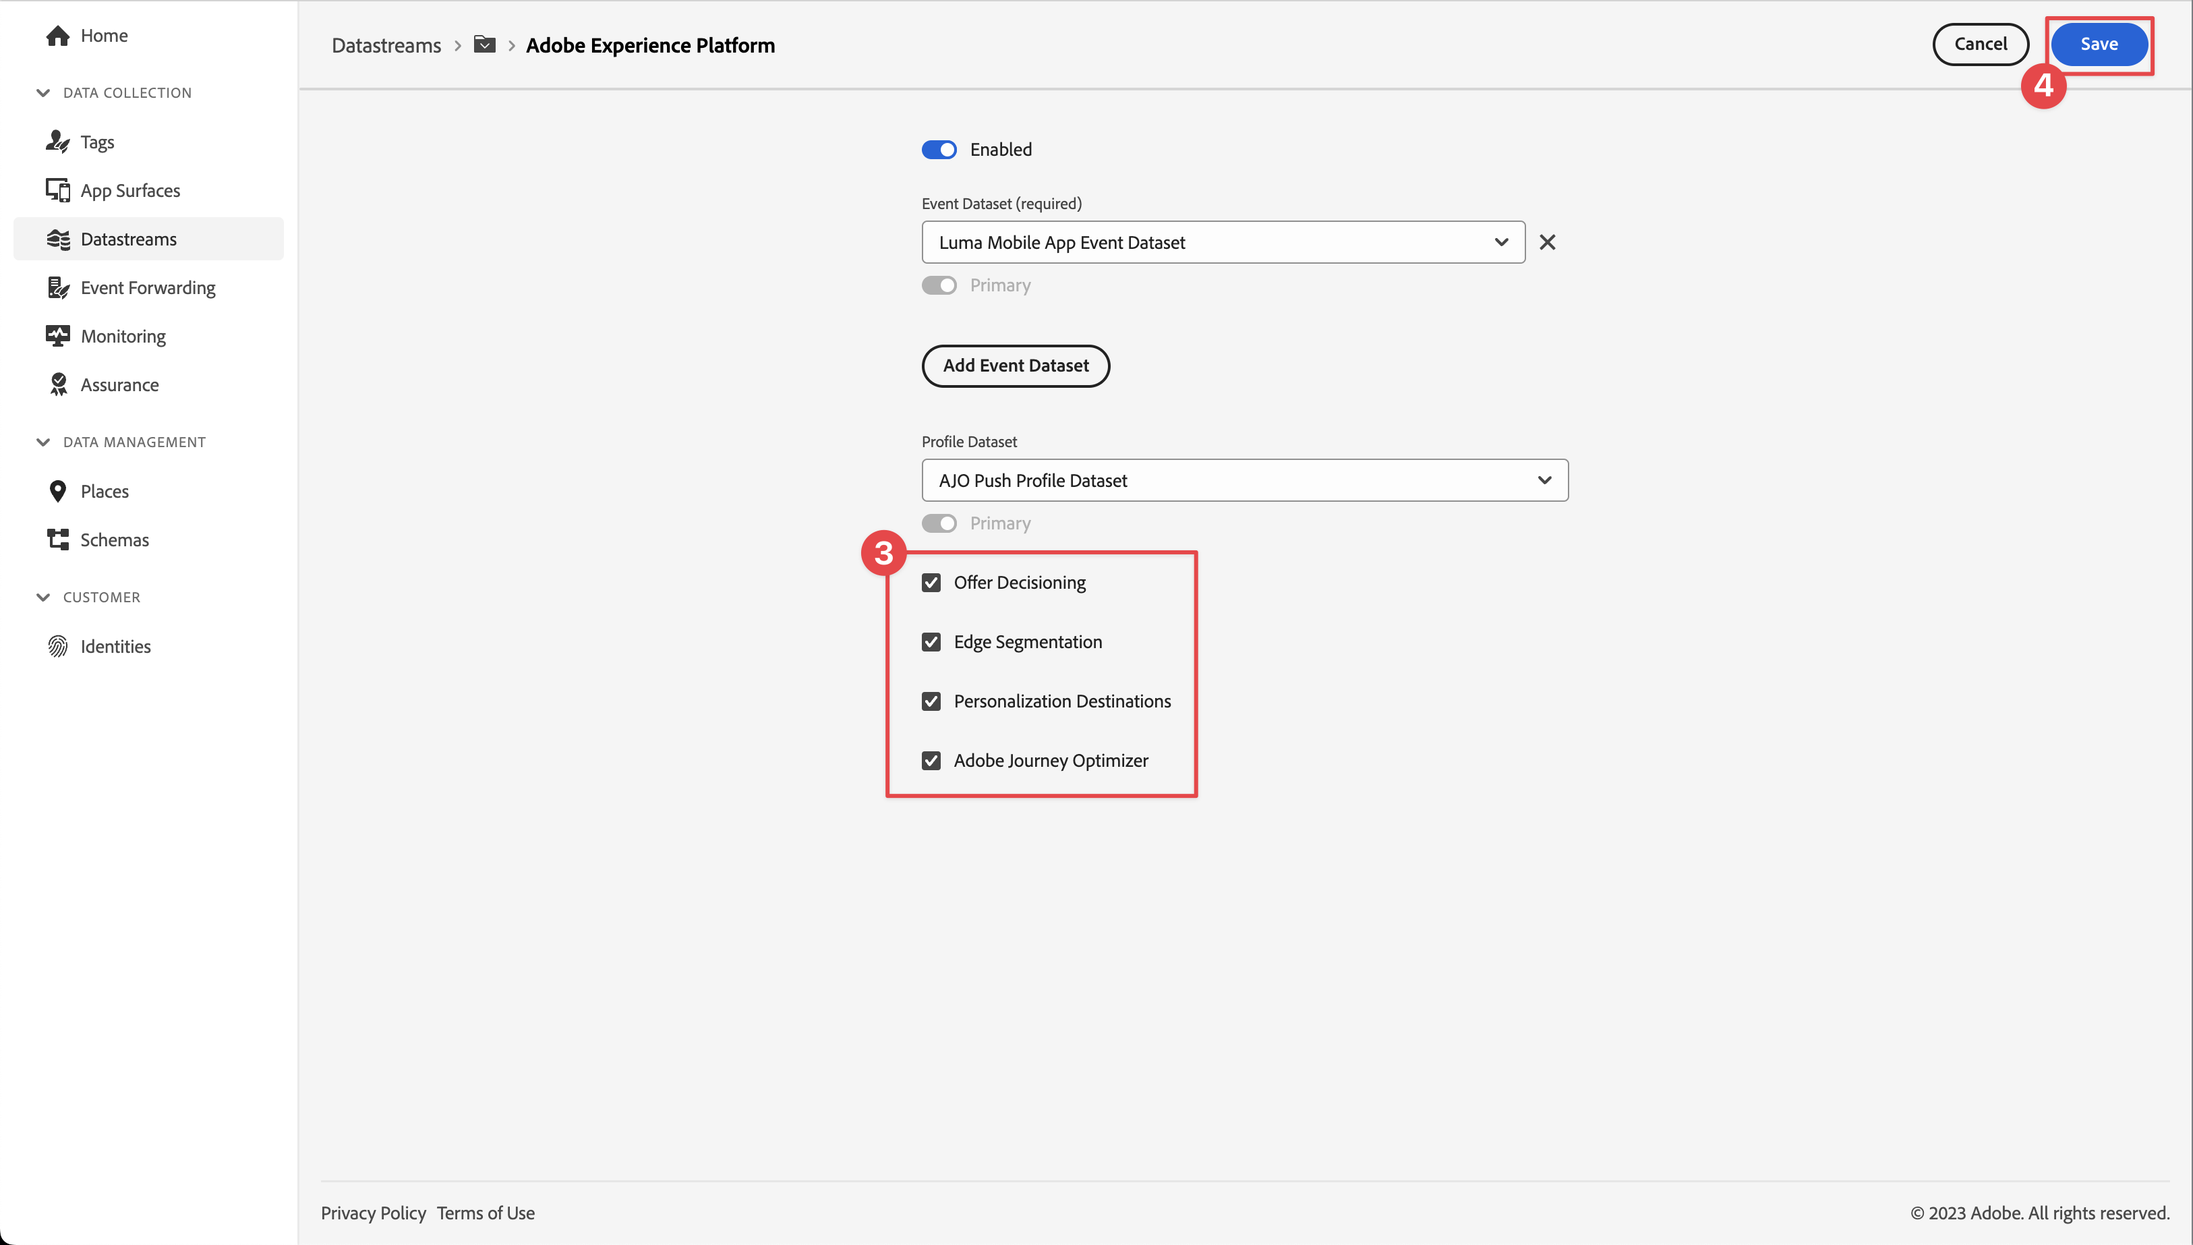
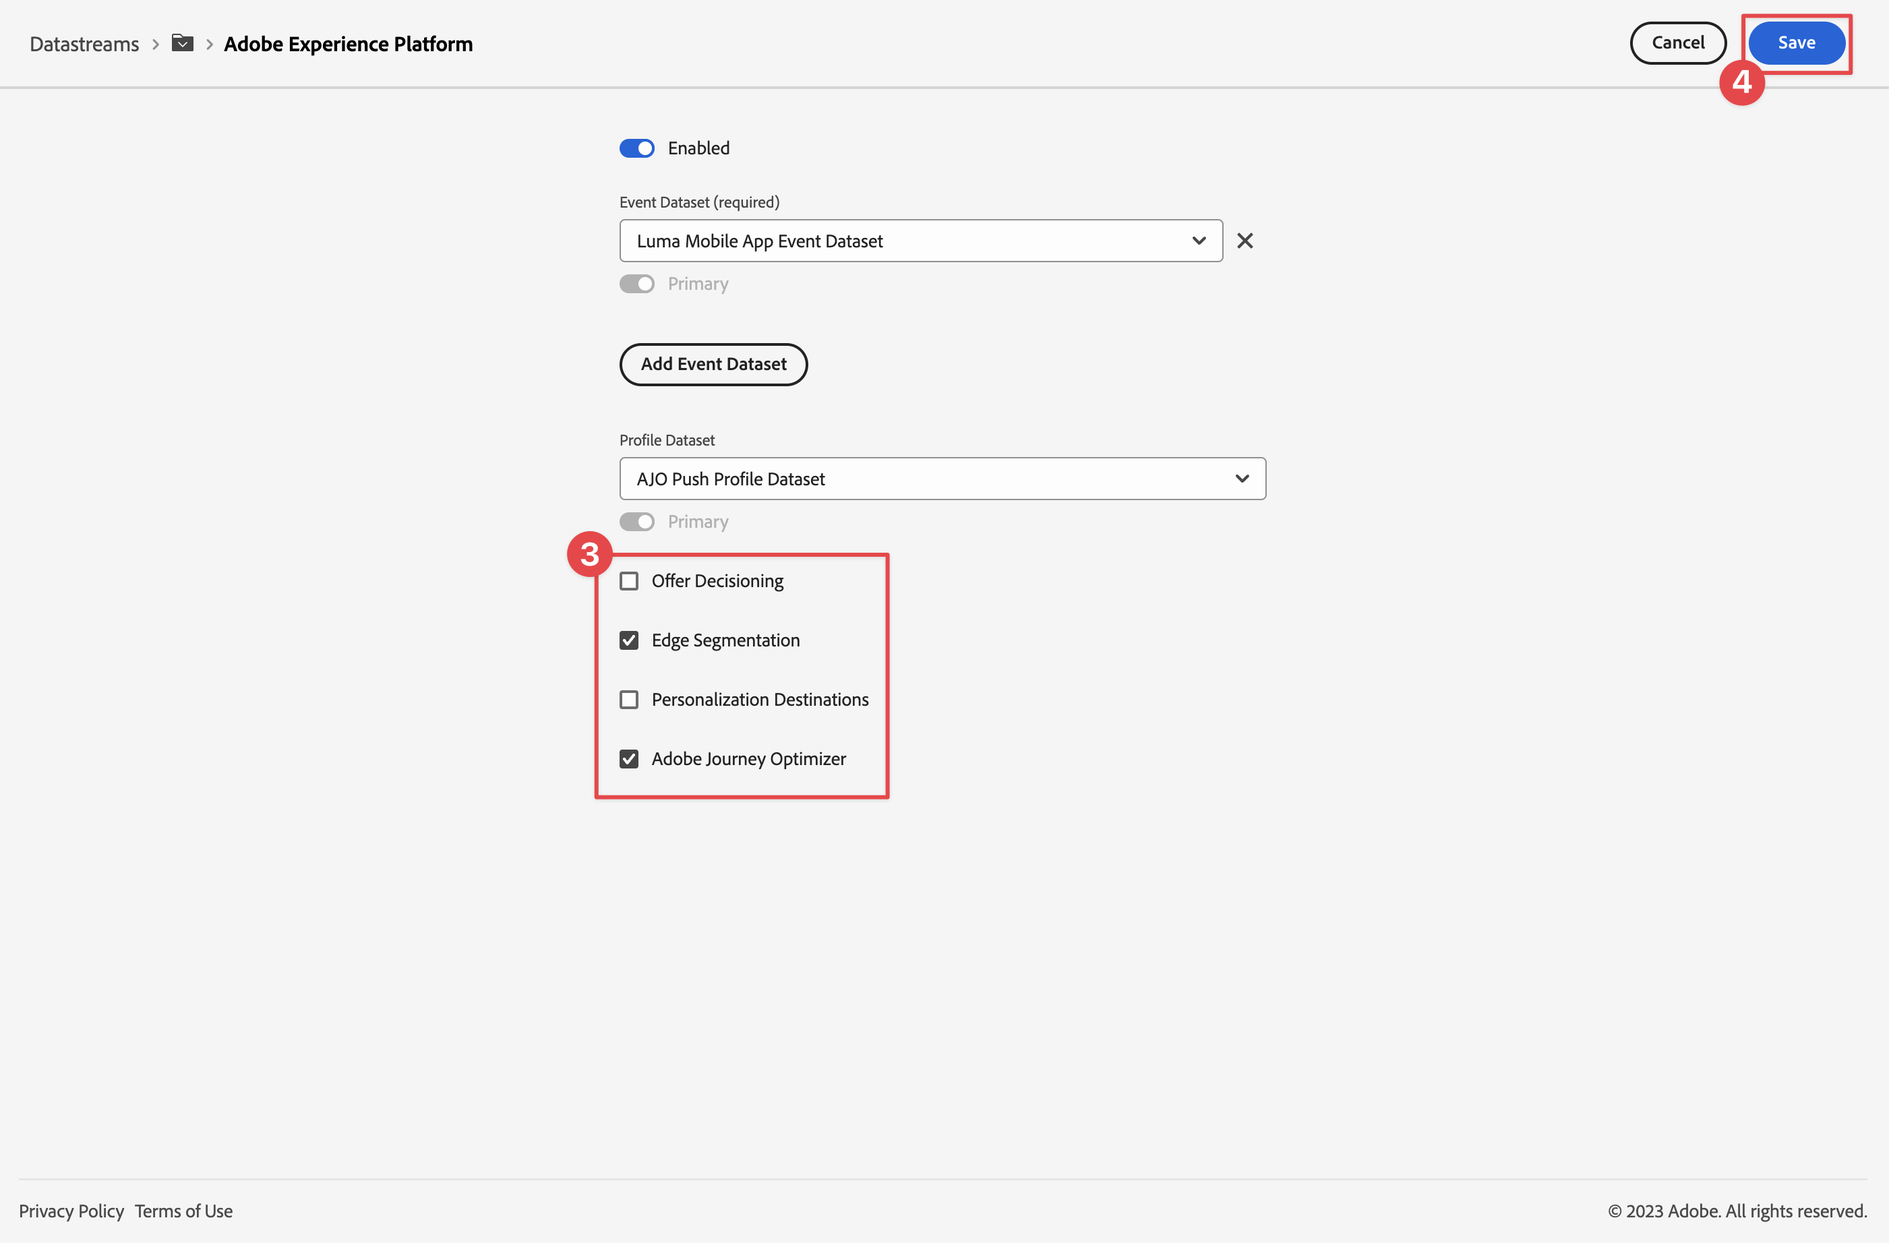
More updates

diff --git a/help/tutorial-mobile-sdk-new/install-sdks.md b/help/tutorial-mobile-sdk-new/install-sdks.md
@@ -27,9 +27,12 @@ In this lesson, you will:
 
 ## Swift Package Manager
 
-Instead of using CocoaPods and using a Pod file (as outlined in the Mobile Install Instructions, see [Generate SDK install instructions](./configure-tags.md#generate-sdk-install-instructions)), you add individual packages using Xcode's native Swift Package Manager.
+Instead of using CocoaPods and using a Pod file (as outlined in the Mobile Install Instructions, see [Generate SDK install instructions](./configure-tags.md#generate-sdk-install-instructions)), you add individual packages using Xcode's native Swift Package Manager. The Xcode project already has all packages dependencies added for you. The Xcode **[!UICONTROL Package Dependencies]** screen should look like:
 
-In Xcode, use **[!UICONTROL File]** > **[!UICONTROL Add Packages...]** and install all packages listed in the table below. Select the link of the package in the table to obtain the full URL for the specific package.
+![Xcode Package Dependencies](assets/xcode-package-dependencies.png){zoomable="yes"}
+
+
+In Xcode, you can use **[!UICONTROL File]** > **[!UICONTROL Add Packages...]** to add packages. The table below provides links to the URLs you would use to add packages. The links also direct you to more information about each specific package.  
 
 | Package | Description | 
 |---|---|
@@ -42,11 +45,6 @@ In Xcode, use **[!UICONTROL File]** > **[!UICONTROL Add Packages...]** and insta
 | [AEP Messaging](https://github.com/adobe/aepsdk-messaging-ios.git) | The AEP Messaging extension (`AEPMessaging`) allows you to send push notification tokens and push notification click-through feedback to the Adobe Experience Platform.|
 | [AEP Optimize](https://github.com/adobe/aepsdk-optimize-ios) | The AEP Optimize extension (`AEPOptimize`) provides APIs to enable real-time personalization workflows in the Adobe Experience Platform Mobile SDKs using Adobe Target or Adobe Journey Optimizer Offer Decisioning. It requires `AEPCore` and `AEPEdge` extensions to send personalization query events to the Experience Edge network. |
 | [AEP Assurance](https://github.com/adobe/aepsdk-assurance-ios.git) | Assurance (a.k.a. project Griffon) is a new, innovative extension (`AEPAssurance`) to help you inspect, proof, simulate, and validate how you collect data or serve experiences in your mobile app. This extension enables your app for Assurance. |
-
-
-After you have installed all packages, your Xcode **[!UICONTROL Package Dependencies]** screen should look like:
-
-![Xcode Package Dependencies](assets/xcode-package-dependencies.png){zoomable="yes"}
 
 
 ## Import extensions
@@ -76,10 +74,10 @@ Do the same for **[!DNL Luma]** > **[!DNL Luma]** > **[!DNL Utils]** > **[!UICON
 
 Navigate to **[!DNL Luma]** > **[!DNL Luma]** > **AppDelegate** in the Xcode Project navigator. 
 
-1. Set the `@AppStorage` value for `environmentFileId` to the Development Environment File ID value that you retrieved from tags in step 6 in [Generate SDK install instructions](configure-tags.md#generate-sdk-install-instructions). 
+1. Replace the `@AppStorage` value `YOUR_ENVIRONMENT_ID_GOES_HERE` for `environmentFileId` to the Development Environment File ID value that you retrieved from tags in step 6 in [Generate SDK install instructions](configure-tags.md#generate-sdk-install-instructions). 
 
    ```swift
-   @AppStorage("environmentFileId") private var environmentFileId = "b5cbd1a1220e/1857ef6cacb5/launch-2594f26b23cd-development"
+   @AppStorage("environmentFileId") private var environmentFileId = "YOUR_ENVIRONMENT_ID_GOES_HERE"
    ```
 
 1. Add the following code to the `application(_, didFinishLaunchingWithOptions)` function.

diff --git a/help/tutorial-mobile-sdk-new/target.md b/help/tutorial-mobile-sdk-new/target.md
@@ -42,7 +42,7 @@ In this lesson, you will
 * Validate implementation in Assurance.
 
 
-## Setup your app
+## Setup
 
 >[!TIP]
 >
@@ -71,10 +71,10 @@ To ensure data send from your mobile app to the Edge Network is forwarded to Jou
 
 1. In the Data Collection UI, select **[!UICONTROL Datastreams]**, and select your datastream, for example **[!DNL Luma Mobile App]**.
 1. Select ![More](https://spectrum.adobe.com/static/icons/workflow_18/Smock_MoreSmallList_18_N.svg) for **[!UICONTROL Experience Platform]** and select ![Edit](https://spectrum.adobe.com/static/icons/workflow_18/Smock_Edit_18_N.svg) **[!UICONTROL Edit]** from the context menu.
-1. In the **[!UICONTROL Datastreams]** > ![Folder](https://spectrum.adobe.com/static/icons/workflow_18/Smock_Folder_18_N.svg) >  **[!UICONTROL Adobe Experience Platform]** screen, ensure **[!UICONTROL Offer Decisioning]**, **[!UICONTROL Edge Segmentation]**, **[!UICONTROL Personalization Destinations]**, and **[!UICONTROL Adobe Journey Optimizer]** are selected. See [Adobe Experience Platform settings](https://experienceleague.adobe.com/docs/experience-platform/datastreams/configure.html?lang=en#aep) for more information.
+1. In the **[!UICONTROL Datastreams]** > ![Folder](https://spectrum.adobe.com/static/icons/workflow_18/Smock_Folder_18_N.svg) >  **[!UICONTROL Adobe Experience Platform]** screen, ensure **[!UICONTROL Offer Decisioning]**, **[!UICONTROL Edge Segmentation]**, and **[!UICONTROL Personalization Destinations]** are selected. If you also follow the Journey Optimizer lessons, you should select **[!UICONTROL Adobe Journey Optimizer]** as well. See [Adobe Experience Platform settings](https://experienceleague.adobe.com/docs/experience-platform/datastreams/configure.html?lang=en#aep) for more information.
 1. To save your datastream configuration, select **[!UICONTROL Save]** .
 
-   ![AEP datastream configuration](assets/datastream-aep-configuration.png)
+   ![AEP datastream configuration](assets/datastream-aep-configuration-target.png)
 
 
 ### Install Adobe Journey Optimizer - Decisioning tags extension
@@ -160,7 +160,7 @@ There are many types of activities you can create in Adobe Target and implement 
 
     1. Rename your Untitled Activity, for example  to `Luma Mobile SDK Tutorial - A/B Test Example`.
     1. Enter an **[!UICONTROL Objective]** for your A/B test, for example `A/B Test for Luma mobile app tutorial`.
-    1. Select **[!UICONTROL Conversion]**, **[!UICONTROL Clicked on mbox]** in the **[!UICONTROL Goal Metric]** > **[!UICONTROL MY PRIMARY GOAL]** tile and enter your location (mbox) name, for example `luma-mobileapp-abtest`.
+    1. Select **[!UICONTROL Conversion]**, **[!UICONTROL Viewed an mbox]** in the **[!UICONTROL Goal Metric]** > **[!UICONTROL MY PRIMARY GOAL]** tile and enter your location (mbox) name, for example `luma-mobileapp-abtest`.
     1. Select **[!UICONTROL Save & Close]**.
 
        ![Goals Settings](assets/target-goals.png)

diff --git a/help/tutorial-mobile-sdk-new/journey-optimizer-offers.md b/help/tutorial-mobile-sdk-new/journey-optimizer-offers.md
@@ -56,10 +56,12 @@ To ensure data send from your mobile app to the Edge Network is forwarded to Jou
 
 1. In the Data Collection UI, select **[!UICONTROL Datastreams]**, and select your datastream, for example **[!DNL Luma Mobile App]**.
 1. Select ![More](https://spectrum.adobe.com/static/icons/workflow_18/Smock_MoreSmallList_18_N.svg) for **[!UICONTROL Experience Platform]** and select ![Edit](https://spectrum.adobe.com/static/icons/workflow_18/Smock_Edit_18_N.svg) **[!UICONTROL Edit]** from the context menu.
-1. In the **[!UICONTROL Datastreams]** > ![Folder](https://spectrum.adobe.com/static/icons/workflow_18/Smock_Folder_18_N.svg) >  **[!UICONTROL Adobe Experience Platform]** screen, ensure **[!UICONTROL Offer Decisioning]**, **[!UICONTROL Edge Segmentation]**, **[!UICONTROL Personalization Destinations]**, and **[!UICONTROL Adobe Journey Optimizer]** are selected. See [Adobe Experience Platform settings](https://experienceleague.adobe.com/docs/experience-platform/datastreams/configure.html?lang=en#aep) for more information.
+1. In the **[!UICONTROL Datastreams]** > ![Folder](https://spectrum.adobe.com/static/icons/workflow_18/Smock_Folder_18_N.svg) >  **[!UICONTROL Adobe Experience Platform]** screen, ensure **[!UICONTROL Offer Decisioning]**, **[!UICONTROL Edge Segmentation]**, and **[!UICONTROL Adobe Journey Optimizer]** are selected. If you also follow the Target lesson, you should select **[!UICONTROL Personalization Destinations]** as well. See [Adobe Experience Platform settings](https://experienceleague.adobe.com/docs/experience-platform/datastreams/configure.html?lang=en#aep) for more information.
 1. To save your datastream configuration, select **[!UICONTROL Save]** .
 
-   ![AEP datastream configuration](assets/datastream-aep-configuration.png)
+   ![AEP datastream configuration](assets/datastream-aep-configuration-offers.png)
+
+   
 
 
 ### Install Journey Optimizer - Decisioning tags extension

diff --git a/help/tutorial-mobile-sdk-new/assurance.md b/help/tutorial-mobile-sdk-new/assurance.md
@@ -58,7 +58,12 @@ Before you run the application for the first time in Xcode, ensure you update th
 1. Select **[!DNL Luma]** in the Project navigator.
 1. Select the **[!DNL Luma]** target.
 1. Select the **Signing & Capabilities** tab.
-1. Configure **[!UICONTROL Automatic manage signing]**, **[!UICONTROL Team]**, and **[!UICONTROL Bundle Identifier]**, or use your specific Apple development provisioning details.
+1. Configure **[!UICONTROL Automatic manage signing]**, **[!UICONTROL Team]**, and **[!UICONTROL Bundle Identifier]**, or use your specific Apple development provisioning details. 
+ 
+   >[!IMPORTANT]
+   >
+   >Ensure you select a unique bundle identifier different fron the default one already entered in the Start project, as each bundle identifier needs to be unique.
+
 
     ![Xcode signing capabilities](assets/xcode-signing-capabilities.png){zoomable="yes"}
 
@@ -84,7 +89,7 @@ Assurance works by opening a URL, either via browser or QR code. That URL begins
 1. Select **[!UICONTROL Assurance]** from the left rail in the Data Collection UI.
 1. Select **[!UICONTROL Create Session]**.
 1. Select **[!UICONTROL Start]**.
-1. Provide a **[!UICONTROL Session Name]** such as `Luma Mobile App Session` and the **[!UICONTROL Base URL]**, which is the URL Schemes you entered in Xcode, followed by `://`. For example: `lumatutorialswiftui://`.
+1. Provide a **[!UICONTROL Session Name]** such as `Luma Mobile App Session` and the **[!UICONTROL Base URL]**, which is the URL Schemes you entered in Xcode, followed by `://` For example: `lumatutorialswiftui://`
 1. Select **[!UICONTROL Next]**.
     ![assurance create session](assets/assurance-create-session.png)
 1. In the **[!UICONTROL Create New Session]** modal dialog:

diff --git a/help/tutorial-mobile-sdk-new/journey-optimizer-inapp.md b/help/tutorial-mobile-sdk-new/journey-optimizer-inapp.md
@@ -62,6 +62,18 @@ In this lesson, you will
 
    ![app surface configuration](assets/push-app-surface-config.png)
 
+### Update datastream configuration
+
+To ensure data send from your mobile app to the Edge Network is forwarded to Journey Optimizer, update your Experience Edge configuration .
+
+1. In the Data Collection UI, select **[!UICONTROL Datastreams]**, and select your datastream, for example **[!DNL Luma Mobile App]**.
+1. Select ![More](https://spectrum.adobe.com/static/icons/workflow_18/Smock_MoreSmallList_18_N.svg) for **[!UICONTROL Experience Platform]** and select ![Edit](https://spectrum.adobe.com/static/icons/workflow_18/Smock_Edit_18_N.svg) **[!UICONTROL Edit]** from the context menu.
+1. In the **[!UICONTROL Datastreams]** > ![Folder](https://spectrum.adobe.com/static/icons/workflow_18/Smock_Folder_18_N.svg) >  **[!UICONTROL Adobe Experience Platform]** screen, ensure **[!UICONTROL Adobe Journey Optimizer]** is selected. See [Adobe Experience Platform settings](https://experienceleague.adobe.com/docs/experience-platform/datastreams/configure.html?lang=en#aep) for more information.
+1. To save your datastream configuration, select **[!UICONTROL Save]**.
+
+   ![AEP datastream configuration](assets/datastream-aep-configuration.png)
+
+
 ### Install Journey Optimizer tags extension
 
 For your app to work with Journey Optimizer, you need to update your tag property.

diff --git a/help/tutorial-mobile-sdk-new/journey-optimizer-push.md b/help/tutorial-mobile-sdk-new/journey-optimizer-push.md
@@ -163,7 +163,7 @@ For your app to work with Journey Optimizer, you need to update your tag propert
 
 You should now have an push notification extension added to your app, similar to the screen below.
 
-...
+![Pusn nofitications extension](assets/xcode-signing-capabilities-pushnotifications.png)
 
 
 ### Implement Journey Optimizer in the app
@@ -391,7 +391,7 @@ This time the experience event you are about to send is not constructed building
 
 ## Next steps
 
-You should now have all the tools to handle push notifications in your app. For example, you could build a journey in Journey Optimizer that sends a welcome push notification when a user of the app logs in. Or a confirmation push message when a user purchases a product in the app. Or enters the geofence of a location (as you will see in the [Places](places.md) lesson).
+You should now have all the tools to handle push notifications in your app. For example, you could build a journey in Journey Optimizer that sends a welcome push notification when a user of the app logs in. Or a confirmation push notification when a user purchases a product in the app. Or enters the geofence of a location (as you will see in the [Places](places.md) lesson).
 
 >[!SUCCESS]
 >

diff --git a/help/tutorial-mobile-sdk-new/create-schema.md b/help/tutorial-mobile-sdk-new/create-schema.md
@@ -208,7 +208,7 @@ Now add a custom field group using your custom data type:
 
 1. In the right rail, provide a **[!UICONTROL Field name]** of `appInformation`, a **[!UICONTROL Display name]** of `App Information`, and a **[!UICONTROL Type]** of `App Information`.
 
-1. Select **[!UICONTROL App Interactions]** from the **[!UICONTROL Type]** drop down, which is the custom data type you created in the previous exercise.
+1. Select **[!UICONTROL App Interactions]** from the **[!UICONTROL Field Group]** drop down, to assign the fields to your new field group.
 
 1. Select **[!UICONTROL Apply]**.
 
@@ -218,7 +218,7 @@ Now add a custom field group using your custom data type:
 
 >[!NOTE]
 >
->Custom field groups are always placed under your Experience Cloud Org identifier. So `_techmarketingdemos`, used in the screenshots, is replaced with your organization's unique value.
+>Custom field groups are always placed under your Experience Cloud Org identifier.
 
 
 >[!SUCCESS]

diff --git a/help/tutorial-mobile-sdk-new/configure-tags.md b/help/tutorial-mobile-sdk-new/configure-tags.md
@@ -106,7 +106,7 @@ In this lesson, you will:
     
     1. In **[!UICONTROL Datastreams]** select the **[!UICONTROL Datastream]** that you created in the [previous step](create-datastream.md) for each of the environments, for example **[!DNL Luma Mobile App]**.
 
-    1. Specify the **[!UICONTROL Edge Network domain]** within **[!UICONTROL Domain Configuration]**. The Edge Network domain is the name of your organization, followed by `data.adobedc.net`, for example `techmarketingdemos.data.adobedc.net`.
+    1. If not already populated, specify the **[!UICONTROL Edge Network domain]** within **[!UICONTROL Domain Configuration]**. The Edge Network domain is the name of your organization, followed by `data.adobedc.net`, for example `techmarketingdemos.data.adobedc.net`.
 
     1. From the **[!UICONTROL Save to Library]** menu, select **[!UICONTROL Save to Library and Build]**.
 

diff --git a/help/tutorial-mobile-sdk-new/events.md b/help/tutorial-mobile-sdk-new/events.md
@@ -356,7 +356,7 @@ Again, lets actually implement this code in your Xcode project.
 
 ## Next steps
 
-You should now have all the tools to start adding data collection to the Luma app. You can add more intelligence to how the user interacts with your products in the app and you can add more app interaction and screen tracking calls to the app:
+You should now have all the tools to start adding data collection to your app. You can add more intelligence to how the user interacts with your products in the app and you can add more app interaction and screen tracking calls to the app:
 
 * Implement order, checkout, empty basket, and other functionality to the app and add relevant commerce experience events to this functionality.
 * Repeat the call to `sendAppInteractionEvent` with the appropriate parameter to track other app interactions by the user. 

diff --git a/help/tutorial-mobile-sdk-new/web-views.md b/help/tutorial-mobile-sdk-new/web-views.md
@@ -57,7 +57,7 @@ The [`AEPEdgeIdentity.Identity.getUrlVariables`](https://developer.adobe.com/cli
 
 You can learn more about the `Identity.getUrlVariables` API in the [Identity for Edge Network extension API reference guide](https://developer.adobe.com/client-sdks/documentation/identity-for-edge-network/api-reference/#geturlvariables).
 
-## Validation
+## Validate
 
 To execute the code:
 
@@ -84,6 +84,8 @@ To execute the code:
       ```html
       adobe_mc=TS=1636526122|MCMID=79076670946787530005526183384271520749|MCORGID=7ABB3E6A5A7491460A495D61@AdobeOrg
       ```
+
+Unfortunately, debugging the web session is limited; you can not use the Adobe Experience Platform Debugger in your browser for example to continue debugging the webview session.
 
 >[!NOTE]
 >

diff --git a/help/tutorial-mobile-sdk-new/create-datastream.md b/help/tutorial-mobile-sdk-new/create-datastream.md
@@ -41,7 +41,7 @@ Datastreams can be created in the [!UICONTROL Data Collection] interface using t
     >
     >Final reminder: if you are going through this tutorial with multiple persons on a single sandbox or you are using a shared account, consider appending or prepending an identification as part of your naming conventions. For example, instead of `Luma Mobile App Event Dataset`, use `Luma Mobile App Event Dataset - Joe Smith`. See also the note in [Overview](overview.md).
 
-1. Select the schema that you created in the previous lesson from the **Event Schem**a list.
+1. Select the schema that you created in the previous lesson from the **Event Schema** list.
 1. Select **[!UICONTROL Save]**.
 
     ![new datastreams](assets/datastream-name.png)

diff --git a/help/tutorial-mobile-sdk-new/overview.md b/help/tutorial-mobile-sdk-new/overview.md
@@ -97,4 +97,4 @@ Let's get started!
 >
 >Thank you for investing your time in learning about Adobe Experience Platform Mobile SDK. If you have questions, want to share general feedback, or have suggestions on future content, share them on this [Experience League Community discussion post](https://experienceleaguecommunities.adobe.com/t5/adobe-experience-platform-launch/tutorial-discussion-implement-adobe-experience-cloud-in-mobile/td-p/443796).
 
-Next: **[Create an XDM schema](create-schema.md)**.
+Next: **[Create an XDM schema](create-schema.md)**
